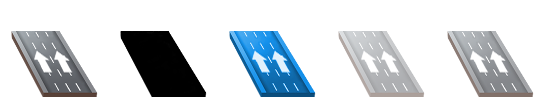
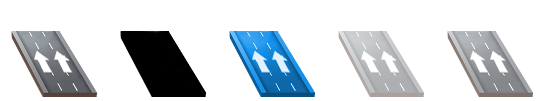
3L and 4L OW LOD
LOD for everyone! yay!

diff --git a/Core/NewNetwork/OneWay3L/OneWay3LBuilder.cs b/Core/NewNetwork/OneWay3L/OneWay3LBuilder.cs
@@ -41,7 +41,11 @@ namespace NetworkExtensions.NewNetwork.OneWay3L
                     info.SetSegmentsTexture(
                         new TexturesSet
                            (@"NewNetwork\OneWay3L\Textures\Ground_Segment__MainTex.png",
-                            @"NewNetwork\OneWay3L\Textures\Ground_Segment__AlphaMap.png"));
+                            @"NewNetwork\OneWay3L\Textures\Ground_Segment__AlphaMap.png"),
+                        new TexturesSet
+                           (@"NewNetwork\OneWay3L\Textures\Ground_SegmentLOD__MainTex.png",
+                            @"NewNetwork\OneWay3L\Textures\Ground_SegmentLOD__AlphaMap.png",
+                            @"NewNetwork\OneWay3L\Textures\Ground_SegmentLOD__XYS.png"));
                     break;
             }
 
